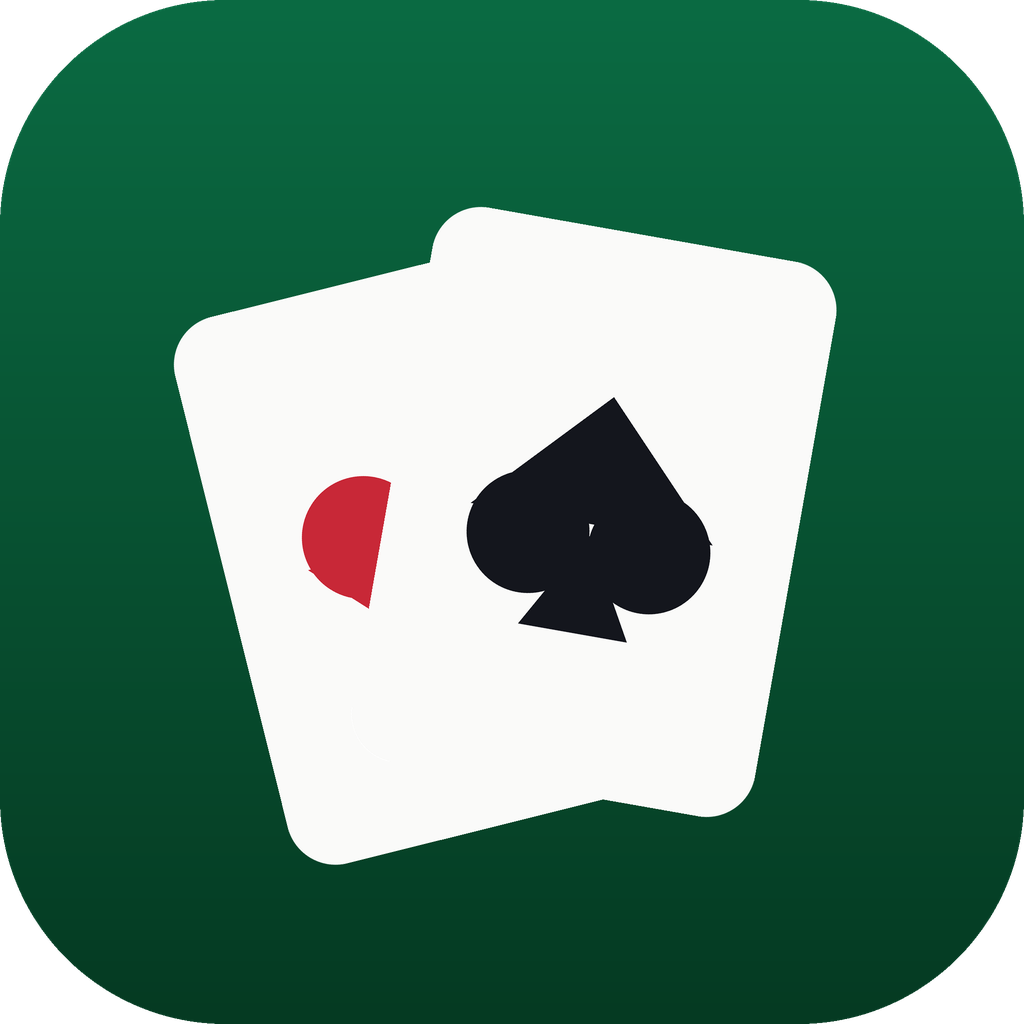
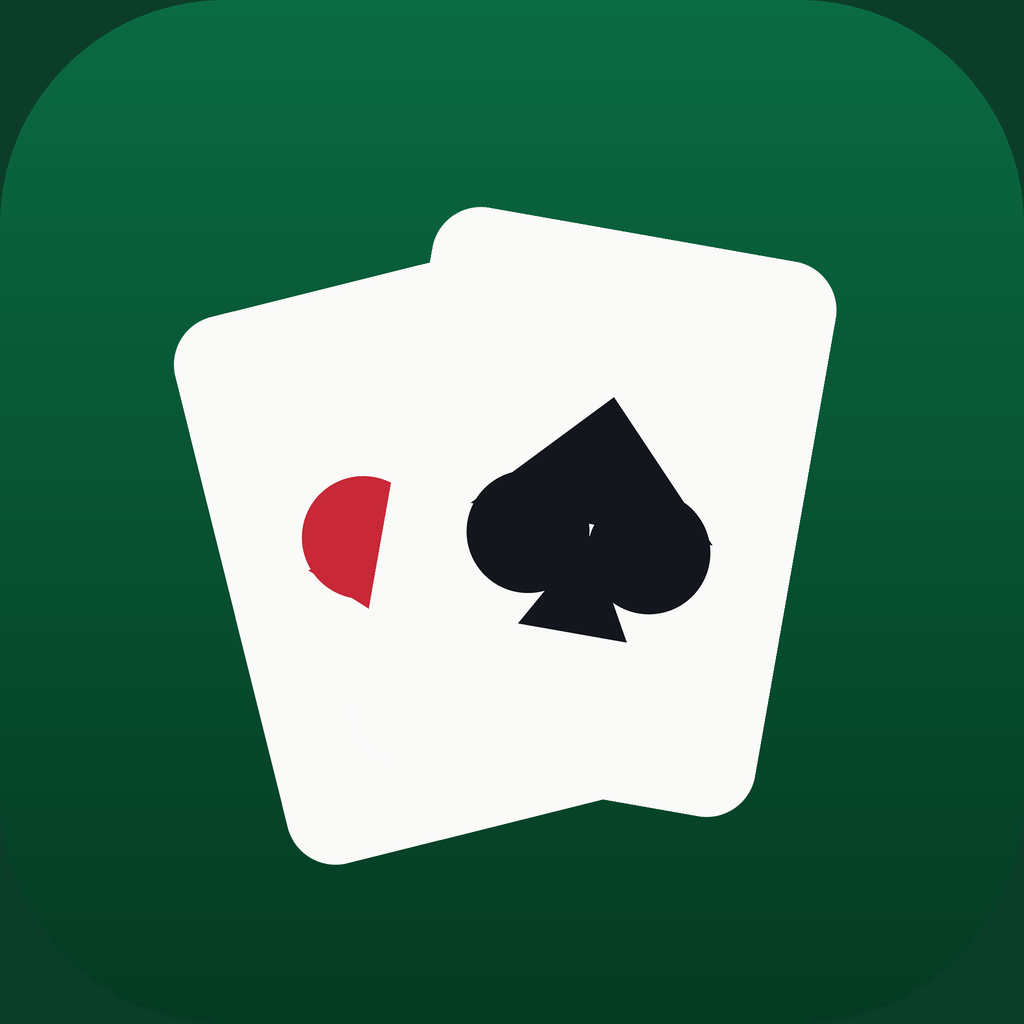
Conformité stores : lever les bloquants corrigeables (revue compliance)
- Icône App Store régénérée sans canal alpha (RGB plein) — évite le rejet Apple
  automatique pour transparence dans l'icône.
- capacitor.config.json : NSUserNotificationsUsageDescription (iOS) + SplashScreen
  (couleur de marque) — pré-câblés pour le packaging natif.
- STORE_LISTING : mot-clé « tarot » retiré.
- PUBLISHING : classification 4+/PEGI 3 explicite (fin de l'ambiguïté « 18+ »).
- privacy.html : date de mise à jour précise.
- TES_NEXT_STEPS : état conformité stores (bloquants restants : 2 infos éditeur + packaging).

Restent (hors code) : mentions d'éditeur (2 infos), packaging Capacitor sur Mac,
1 feature native (anti-rejet 4.2), captures d'écran.

Claude-Session: https://claude.ai/code/session_01Kri6QrzXn4ydx2p7ALmrP3

diff --git a/public/privacy.html b/public/privacy.html
@@ -15,7 +15,7 @@
   </head>
   <body>
     <h1>Politique de confidentialité — Coincheur</h1>
-    <p class="muted">Dernière mise à jour : 2026. Éditeur : [À COMPLÉTER]. Contact : [À COMPLÉTER].</p>
+    <p class="muted">Dernière mise à jour : 2026-06-24. Éditeur : [À COMPLÉTER]. Contact : [À COMPLÉTER].</p>
 
     <h2>En bref</h2>
     <p>

diff --git a/TES_NEXT_STEPS.md b/TES_NEXT_STEPS.md
@@ -4,6 +4,28 @@
 > Il reste surtout de l'administratif et 2 infos. Suis l'ordre ci-dessous.
 > Détails techniques dans : `STORE.md`, `SUBMISSION.md`, `STORE_LISTING.md`, `PUBLISHING_ASSETS.md`.
 
+## Conformité stores — état (revue du 2026-06-24)
+
+**Verdict actuel : NO-GO tant que les 2 bloquants 🔴 ne sont pas levés.**
+
+Déjà corrigé par moi :
+- ✅ Icône App Store régénérée **sans transparence** (rejet Apple garanti évité).
+- ✅ Mot-clé « tarot » retiré (risque de rejet/recatégorisation).
+- ✅ Classification d'âge clarifiée 4+/PEGI 3 (plus d'ambiguïté « 18+ »).
+- ✅ `capacitor.config.json` pré-configuré : description de permission notifications
+  (iOS) + splash screen (évite l'écran blanc = signe d'app non finie).
+- ✅ Date précise dans la politique de confidentialité.
+
+Reste 🔴 (bloquants) :
+- [ ] **Mentions d'éditeur** : remplacer les `[À COMPLÉTER]` (nom + email) → me donner
+  les 2 infos (Étape 1) et je câble les 4 emplacements d'un coup.
+- [ ] **Packaging natif** (Capacitor sur Mac) — Étape 4.
+
+Reste 🟠 (à faire au packaging) :
+- [ ] Activer **1 feature native** (haptique au jeu d'une carte / à la victoire, ou
+  Game Center) pour écarter le risque Apple « simple site web emballé » (règle 4.2).
+- [ ] Captures d'écran (Étape 5).
+
 ## Étape 0 — Vérifier le site en ligne (5 min)
 - [ ] Ouvre **https://sbbb-git.github.io/coinche/** sur ton iPhone et ton ordi.
 - [ ] Installe-la (iPhone : Safari → Partager → « Sur l'écran d'accueil »).

diff --git a/PUBLISHING.md b/PUBLISHING.md
@@ -45,8 +45,8 @@ npm run build && npx cap sync
 - `npx cap open ios` → dans Xcode : régler le Bundle ID, l'équipe de signature,
   l'icône et le launch screen, puis Archive → distribuer vers App Store Connect.
 - Remplir la fiche (captures, description, confidentialité), soumettre à la review.
-- Catégorie « Jeux / Cartes ». Si l'app simule des jeux d'argent, prévoir la
-  classification d'âge adéquate (l'app de référence est en 18+).
+- Catégorie « Jeux / Cartes ». Classification **4+ / PEGI 3** : aucun argent réel,
+  aucune mise, aucune monnaie virtuelle (cf. `SUBMISSION.md`).
 
 ### Android (Google Play)
 

diff --git a/STORE_LISTING.md b/STORE_LISTING.md
@@ -35,7 +35,7 @@ te fait monter en niveau, donne après donne.
 
 ## Mots-clés (iOS, 100 car., séparés par des virgules)
 ```
-coinche,belote,contrée,belote contrée,cartes,jeu de cartes,tarot,atout,capot,coach,entrainement
+coinche,belote,contrée,belote contrée,cartes,jeu de cartes,atout,capot,coach,entrainement
 ```
 
 ## Notes de version (1.0)